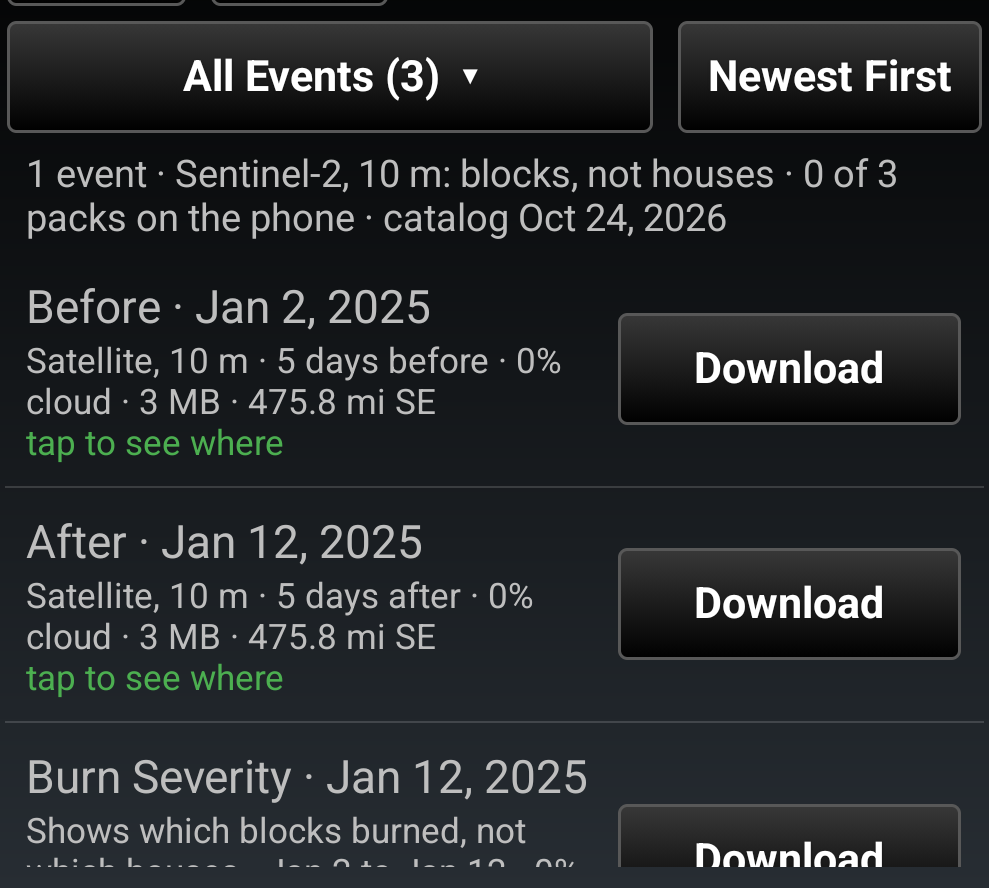
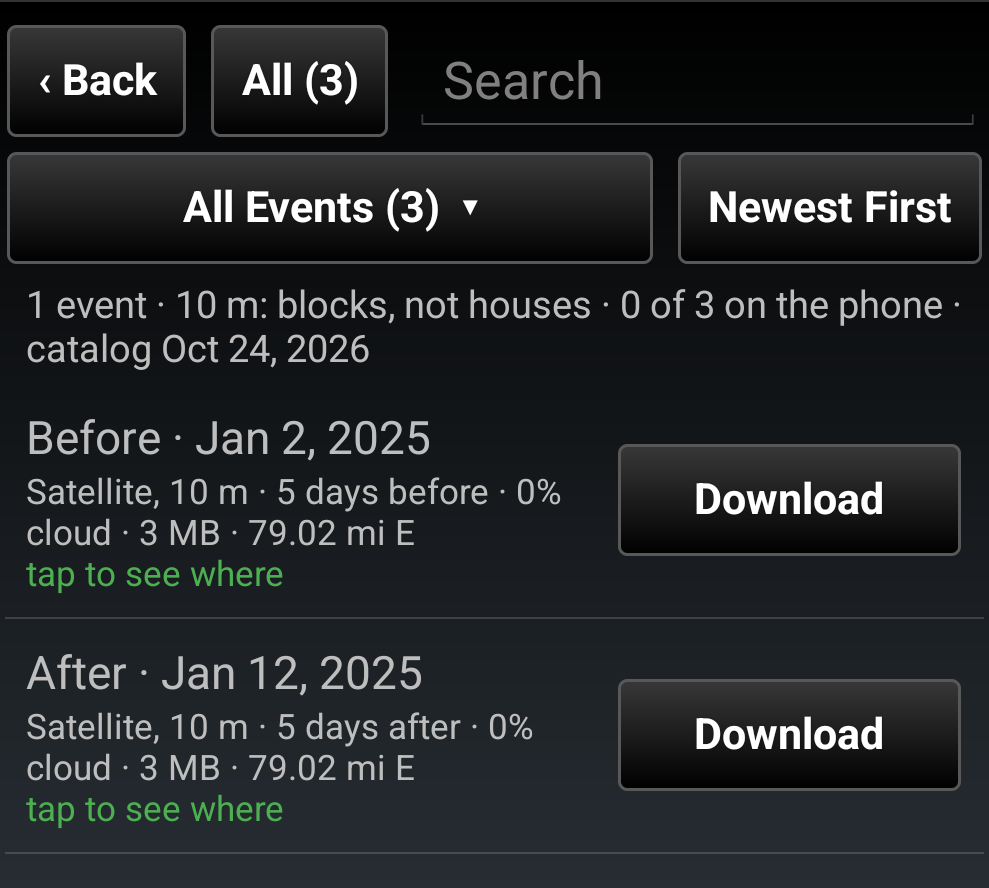
Map Depot 1.14: offline note fits; pane pictures 55 and 57
Measured on s10-dev-2 (dev 5.8.0.3) with the release build: Building
Outlines downloads Riverside (one file) and Los Angeles (three) into
tools/damageassessment/footprints/, ATAK imports nothing, Android's SQLite
opens every file and the counts match the catalog; Remove takes all parts;
cancel in part 1 or part 2 keeps nothing. Offline restart rebuilt the list
from the saved catalog, but the status line, capped at three lines, hid the
no-network note behind the catalog date. Both new status lines are shorter
and drop the catalog date when offline, where the note carries the time.

Pictures from the same build: 55 (Satellite, retaken for the new status
text) and 57 (Building Outlines), crops of the pane.

Changed region(s): [[0.0, 0.0, 1.0, 0.973], [0.637, 0.9426, 0.9707, 1.0]]

diff --git a/app/src/main/java/com/atakmap/android/mapdepot/plugin/MapDepot.java b/app/src/main/java/com/atakmap/android/mapdepot/plugin/MapDepot.java
@@ -2460,7 +2460,7 @@ public class MapDepot implements IPlugin {
      * screen the whole time, not only on one row.
      */
     private String satelliteStatus(String query, int hidden, int total) {
-        final String built = satelliteBuiltAt.length() >= 10
+        final String built = forestsSavedAt == 0 && satelliteBuiltAt.length() >= 10
                 ? " · catalog " + Depot.prettyDate(satelliteBuiltAt.substring(0, 10)) : "";
         if (allSatellite.isEmpty())
             return pluginContext.getString(R.string.no_satellite) + built;
@@ -2470,8 +2470,8 @@ public class MapDepot implements IPlugin {
                 held++;
         if (satIndex < 0)
             return allSatellite.size() + (allSatellite.size() == 1 ? " event" : " events")
-                    + " · Sentinel-2, 10 m: blocks, not houses · " + held + " of "
-                    + allSatPacks.size() + " packs on the phone" + built;
+                    + " · 10 m: blocks, not houses · " + held + " of "
+                    + allSatPacks.size() + " on the phone" + built;
         final Depot.SatEvent e = allSatellite.get(satIndex);
         if (shownPackages.isEmpty() && total > 0) {
             if (packageShown == Shown.INSTALLED)
@@ -2489,7 +2489,10 @@ public class MapDepot implements IPlugin {
      * on the map would otherwise read as broken, and what the list is cut to.
      */
     private String footprintsStatus(String query, int hidden, int total) {
-        final String built = footprintsBuiltAt.length() >= 10
+        // The status line holds three lines and the offline note takes the
+        // last; with no network that note carries the time, so the catalog
+        // date gives way (s10-dev-2, 2026-10-24: the note was cut off).
+        final String built = forestsSavedAt == 0 && footprintsBuiltAt.length() >= 10
                 ? " · catalog " + Depot.prettyDate(footprintsBuiltAt.substring(0, 10)) : "";
         if (allCounties.isEmpty())
             return pluginContext.getString(R.string.no_footprints) + built;
@@ -2504,7 +2507,7 @@ public class MapDepot implements IPlugin {
         for (Depot.County c : allCounties)
             if (installedPackages.contains(c.id()))
                 held++;
-        return "For Damage Assessment to count buildings, not drawn on the map · "
+        return "Not drawn; Damage Assessment counts from these · "
                 + held + " of " + total + (total == 1 ? " county" : " counties")
                 + " on the phone"
                 + (hidden > 0 ? " · nearest " + shownPackages.size() + " shown" : "")

diff --git a/docs/USER_GUIDE.md b/docs/USER_GUIDE.md
@@ -458,6 +458,8 @@ Depot only carries them: they are not drawn on the map, and nothing appears
 when one is downloaded. Damage Assessment uses them to say how many
 buildings sit inside an area you draw, with or without signal.
 
+![Building outlines by county](screenshots/57_building_outlines.png)
+
 Counties are listed nearest the map first, with the number of buildings and
 the size. A large county comes in parts of about 260 MB; the row downloads
 all of them, and if the download is cancelled or fails part way nothing is
